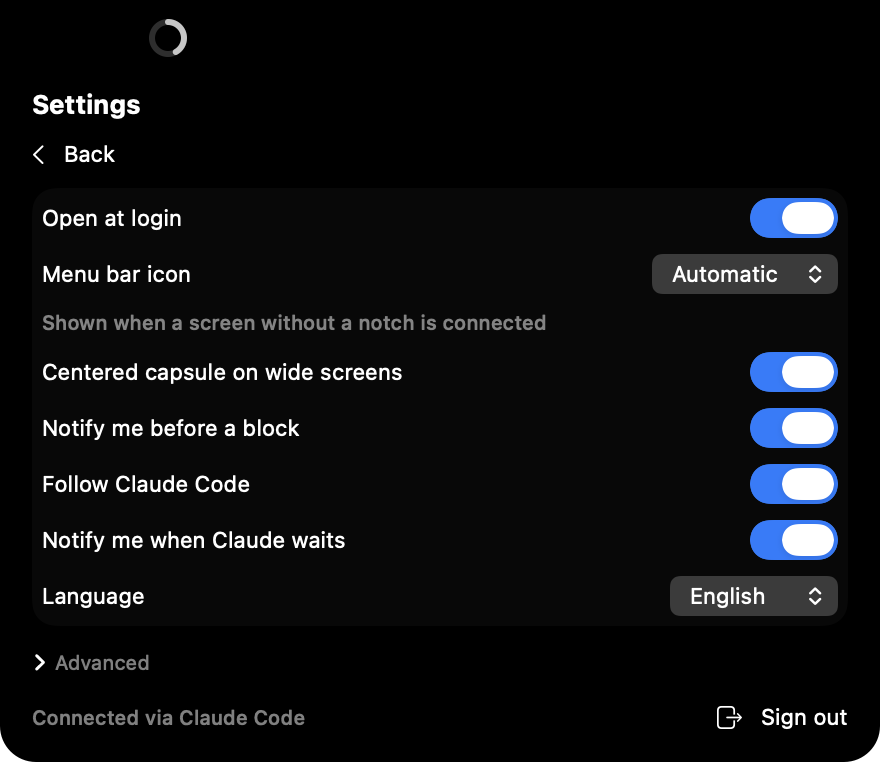
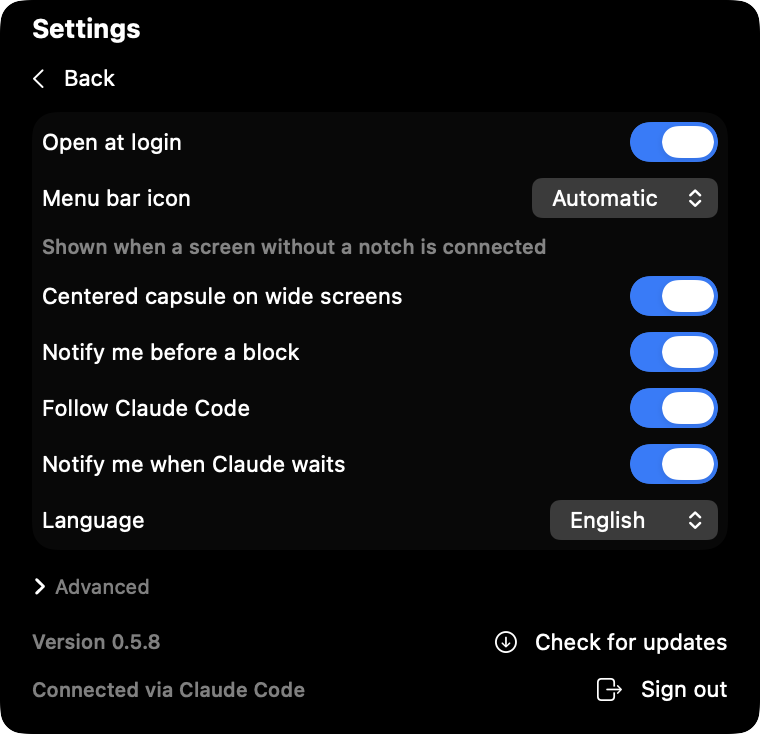
docs: README up to date with 018 to 020
- Settings: Version and Check for updates, new screenshot (020).
- Development: 300+ tests, demo commands for screens and the capsule,
  features up to 020.
- Debug-only demo hook com.notchusage.debug.homebrew to capture the
  Homebrew variant of Settings.

diff --git a/App/NotchUsage/AppModel+Demo.swift b/App/NotchUsage/AppModel+Demo.swift
@@ -52,6 +52,14 @@ extension AppModel {
         demoObservers.append(center.addObserver(forName: .init("com.notchusage.debug.itemsnapshot"), object: nil, queue: .main) { [weak self] _ in
             MainActor.assumeIsolated { self?.debugItemSnapshot() }
         })
+        // `com.notchusage.debug.homebrew` objet "1" | "0" : les Réglages se comportent comme une installation Homebrew (020).
+        demoObservers.append(center.addObserver(forName: .init("com.notchusage.debug.homebrew"), object: nil, queue: .main) { [weak self] note in
+            let on = (note.object as? String) == "1"
+            MainActor.assumeIsolated {
+                UpdateLauncher.debugForceHomebrew = on
+                self?.recompute()
+            }
+        })
         // `com.notchusage.debug.capsulehover` objet "1" | "0" : ouvre ou ferme la carte de la pastille (captures).
         demoObservers.append(center.addObserver(forName: .init("com.notchusage.debug.capsulehover"), object: nil, queue: .main) { [weak self] note in
             let inside = (note.object as? String) == "1"

diff --git a/App/NotchUsage/System/UpdateLauncher.swift b/App/NotchUsage/System/UpdateLauncher.swift
@@ -6,7 +6,15 @@ import NotchUsageCore
 /// sinon, la page des releases dans le navigateur.
 @MainActor
 enum UpdateLauncher {
+    #if DEBUG
+    /// Démo (captures du README) : simule une installation Homebrew, la build Debug tournant hors d'Applications.
+    static var debugForceHomebrew = false
+    #endif
+
     static var route: UpdateRoute {
+        #if DEBUG
+        if debugForceHomebrew { return .homebrew(prefix: "/opt/homebrew") }
+        #endif
         let existing = Set(UpdateRoute.caskroomCandidates.filter { FileManager.default.fileExists(atPath: $0) })
         return UpdateRoute.decide(appPath: Bundle.main.bundlePath, existingCaskrooms: existing)
     }

diff --git a/README.md b/README.md
@@ -117,7 +117,7 @@ Sign out from the panel at any time: credentials and cached data are deleted.
 
 ## Settings
 
-<img src="docs/images/settings.png" alt="Settings: open at login, menu bar icon, centered capsule, notifications, Claude Code, language" width="440" align="right">
+<img src="docs/images/settings.png" alt="Settings: open at login, menu bar icon, centered capsule, notifications, Claude Code, language, version and Check for updates" width="440" align="right">
 
 - **Open at login**.
 - **Menu bar icon**: *Automatic* (default: shown while a display without a notch is connected), *Always* or *Never*.
@@ -126,6 +126,7 @@ Sign out from the panel at any time: credentials and cached data are deleted.
 - **Follow Claude Code**: adds seven hook entries to `~/.claude/settings.json` (all pointing at a small shell script in the app's container), and removes exactly those when turned off; your own hooks are left untouched. Takes effect at once, even in sessions already open. *Notify me when Claude waits* adds a macOS notification for approvals and questions.
 - **Language**: system, English or French.
 - **Advanced**: refresh interval (1 to 15 minutes, 3 by default) and the fallback thresholds (80 % / 95 %) used when no forecast exists.
+- **Version and Check for updates**: shows the installed version. Installed with Homebrew, the button opens Terminal to update and reopen the app; otherwise it opens the releases page. The app itself never goes online for this.
 
 If the browser sign-in is blocked, paste a `claude.ai` session key on the sign-in screen, under *Other method…*.
 
@@ -170,7 +171,7 @@ Notch Usage is an independent project, not affiliated with or endorsed by Anthro
 
 ## Development
 
-The logic lives in `NotchUsageCore`, a Swift package with no dependency beyond Foundation and 230+ tests:
+The logic lives in `NotchUsageCore`, a Swift package with no dependency beyond Foundation and 300+ tests:
 
 ```bash
 swift test
@@ -183,11 +184,14 @@ certificate (free with an Apple ID, Xcode → Settings → Accounts), run `scrip
 Debug builds with it and keep Keychain access across builds.
 
 `scripts/demo.swift` drives a Debug build through its demo states (`normal`, `far`, `near`, `imminent25`, `imminent`, `blocked`,
-`offline`, …) and captures the notch; the README images come from it.
+`offline`, …), Claude Code sessions (`claude=approval3`, …) and screens (`layout=nonotch`, `menubar=notch|external`,
+`capsulehover=1`), and captures the notch, the menu bar icon and the capsule; the README images come from it
+(boards in [`docs/design/readme`](docs/design/readme)).
 
 Each feature is specified, planned and validated with [GitHub Spec Kit](https://github.com/github/spec-kit) in
-[`specs/`](specs), from the first notch (001) and the forecast (003) to the island (012), the simpler settings (013)
-and the icon (014). `scripts/release.sh <version>` signs, notarizes and packages the zip used by the Homebrew cask
+[`specs/`](specs), from the first notch (001) and the forecast (003) to the island (012), the menu bar icon (014), Claude Code
+sessions (017), displays without a notch (018), the island following the active menu bar (019) and updates without
+network access (020). `scripts/release.sh <version>` signs, notarizes and packages the zip used by the Homebrew cask
 (Developer ID required).
 
 ## License
